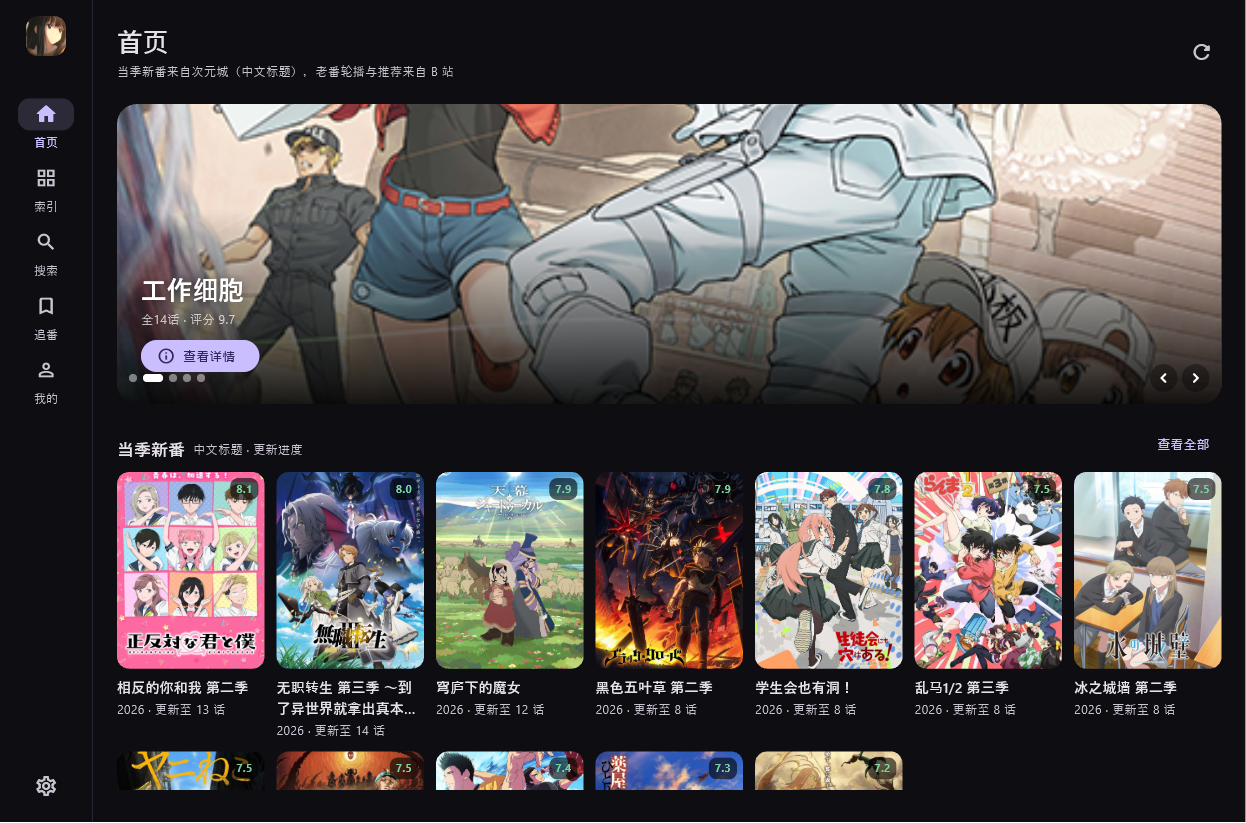
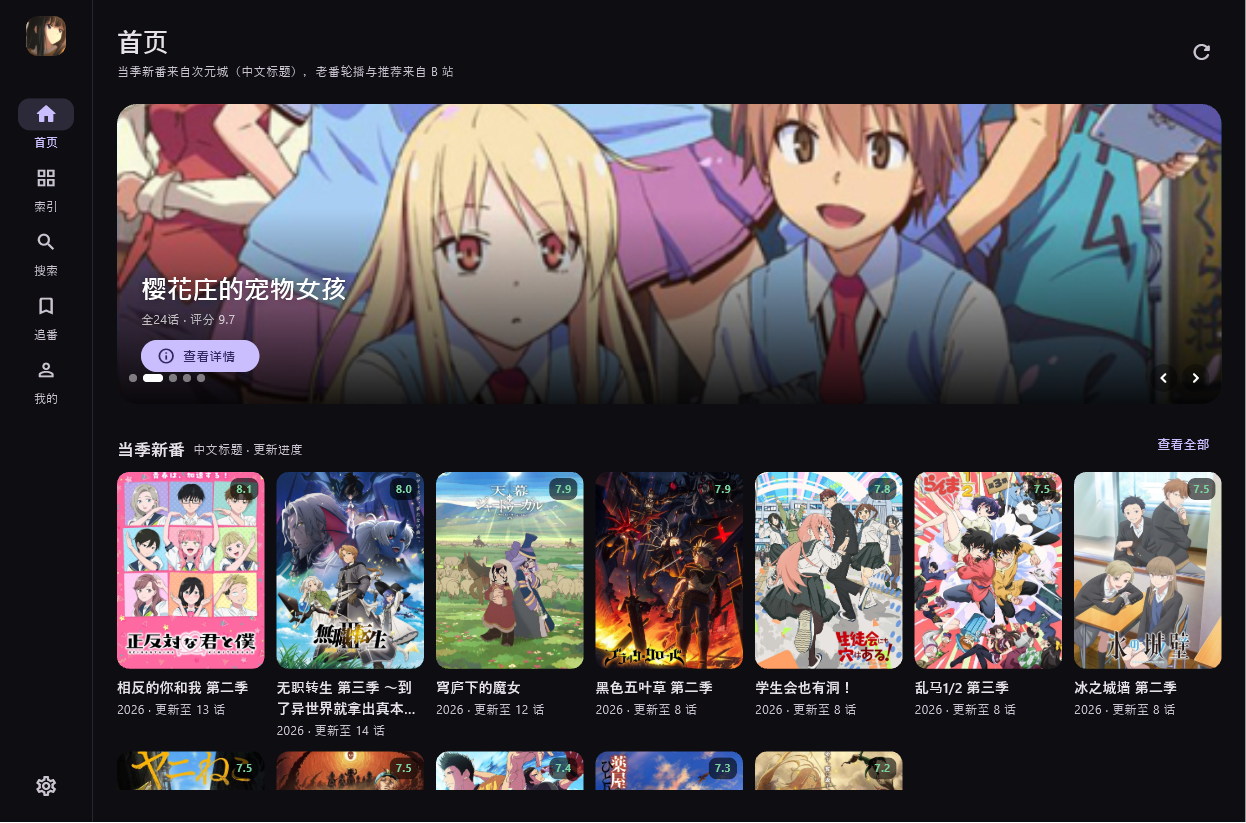
feat(S2.4): 老番推荐改为每天随机
- 老番池改用 B站 is_finish=1&order=1（犬夜叉/超电磁炮/刀剑神域这类真老番）
- 抓 3 页约 72 部 → 同系列去重 → 以当天日期为种子洗牌 → 首页取 14 部
- 同一天内稳定、跨天换一批，避免每次启动列表乱跳
- distinctSeries 迁到 CatalogMerger 并补 2 个单元测试（共 64 个）
- 新增 docs/BACKLOG.md：数据源扩充记到 S7，其它延后项汇总

Changed region(s): [[0.0915, 0.1215, 1.0, 0.486]]

diff --git a/lib/features/catalog/catalog_providers.dart b/lib/features/catalog/catalog_providers.dart
@@ -1,3 +1,5 @@
+import 'dart:math';
+
 import 'package:flutter_riverpod/flutter_riverpod.dart';
 
 import '../../app/providers/app_providers.dart';
@@ -8,6 +10,7 @@ import '../../core/storage/daos.dart';
 import 'data/anilist_catalog.dart';
 import 'data/bili_catalog.dart';
 import 'data/bili_wbi.dart';
+import 'data/catalog_merge.dart';
 import 'data/catalog_models.dart';
 import 'data/catalog_repository.dart';
 import 'data/cycani_catalog.dart';
@@ -78,17 +81,31 @@ final homePopularProvider = FutureProvider<CatalogPage>((ref) {
       );
 });
 
-/// 首页轮播：已完结的老番（按追番人数）。
+/// 首页：日漫老番（已完结），**每天随机**抽取。
 ///
-/// 为什么不用"评分榜"：B 站评分榜前列混着柯南/小猪佩奇这类超长篇，
-/// 当 banner 很难看；用"完结 + 追番人数"更接近"经典老番"。
-final homeClassicProvider = FutureProvider<CatalogPage>((ref) {
-  return ref.watch(catalogRepositoryProvider).browse(
-        page: 1,
-        pageSize: 30,
-        isFinish: 1,
-        order: '3',
-      );
+/// 取 B 站 `is_finish=1 & order=1`（这一维出来的多是犬夜叉/超电磁炮/刀剑神域这类
+/// 真正的老番，而不是按"追番人数"排在前的当季热门），抓 3 页约 72 部，
+/// 同系列去重后按「当天日期」做种子洗牌 —— 同一天打开看到的结果稳定，跨天就换一批。
+final homeClassicProvider = FutureProvider<CatalogPage>((ref) async {
+  final repo = ref.watch(catalogRepositoryProvider);
+
+  final pages = await Future.wait([
+    for (var page = 1; page <= 3; page++)
+      repo.browse(page: page, pageSize: 24, isFinish: 1, order: '1'),
+  ]);
+
+  final all = <AnimeSummary>[];
+  for (final page in pages) {
+    all.addAll(page.items);
+  }
+
+  final distinct = CatalogMerger.distinctSeries(all);
+  // 以日期为种子：同一天内稳定，跨天自动换一批
+  final now = DateTime.now();
+  final seed = now.year * 10000 + now.month * 100 + now.day;
+  distinct.shuffle(Random(seed));
+
+  return CatalogPage(items: distinct, page: 1, hasMore: false);
 });
 
 /// 卡片上的"更新至第 N 话"（仅次元城有数据）。

diff --git a/lib/features/home/home_page.dart b/lib/features/home/home_page.dart
@@ -8,27 +8,11 @@ import '../../app/widgets/empty_state.dart';
 import '../../app/widgets/page_scaffold.dart';
 import '../../app/widgets/section_header.dart';
 import '../catalog/catalog_providers.dart';
+import '../catalog/data/catalog_merge.dart';
 import '../catalog/data/catalog_models.dart';
 import '../catalog/widgets/anime_card.dart';
 import '../catalog/widgets/hero_carousel.dart';
 
-/// 同系列去重：标题归一化后的前 4 个字相同即视为同一系列，只保留第一部。
-///
-/// 例：鬼灭之刃 / 鬼灭之刃 无限列车篇 / 鬼灭之刃 柱训练篇 → 只留第一部。
-/// 这是启发式：宁可少推几部，也不要一屏全是同一系列。
-List<AnimeSummary> distinctSeries(List<AnimeSummary> items) {
-  final seen = <String>{};
-  final out = <AnimeSummary>[];
-  for (final anime in items) {
-    final normalized = TitleMatcher.normalize(anime.title);
-    if (normalized.isEmpty) continue;
-    final key = normalized.length >= 4
-        ? normalized.substring(0, 4)
-        : normalized;
-    if (seen.add(key)) out.add(anime);
-  }
-  return out;
-}
 
 /// 首页：轮播（高分老番）+ 当季新番（中文标题）+ 高分推荐 + 继续观看。
 class HomePage extends ConsumerWidget {
@@ -218,7 +202,7 @@ class _CatalogBlock extends StatelessWidget {
           );
         }
         // 同系列只留第一部（鬼灭 5 条连排太丑），再取两行
-        final distinct = distinctSeries(data.items);
+        final distinct = CatalogMerger.distinctSeries(data.items);
         return AnimeGrid(
           items: distinct.take(14).toList(),
           onTap: onOpen,

diff --git a/test/catalog_merge_test.dart b/test/catalog_merge_test.dart
@@ -143,4 +143,26 @@ void main() {
     );
     expect(merged.length, 1);
   });
+
+  test('同系列去重：鬼灭之刃 各篇只留第一部', () {
+    final items = [
+      _bili(title: '鬼灭之刃 柱训练篇', year: 2024, eps: 8),
+      _bili(title: '鬼灭之刃 刀匠村篇', year: 2023, eps: 11),
+      _bili(title: '鬼灭之刃', year: 2019, eps: 26),
+      _bili(title: '咒术回战', year: 2020, eps: 24),
+    ];
+    final distinct = CatalogMerger.distinctSeries(items);
+    expect(distinct.length, 2);
+    expect(distinct.first.title, '鬼灭之刃 柱训练篇');
+    expect(distinct.last.title, '咒术回战');
+  });
+
+  test('同系列去重：空标题不会让后续条目被吞', () {
+    final distinct = CatalogMerger.distinctSeries([
+      _bili(title: ''),
+      _bili(title: '孤独摇滚', year: 2022, eps: 12),
+    ]);
+    expect(distinct.length, 1);
+    expect(distinct.single.title, '孤独摇滚');
+  });
 }

diff --git a/lib/features/catalog/data/catalog_merge.dart b/lib/features/catalog/data/catalog_merge.dart
@@ -76,4 +76,22 @@ class CatalogMerger {
     }
     return true;
   }
+
+  /// 同系列去重：标题归一化后的前 4 个字相同即视为同一系列，只保留第一部。
+  ///
+  /// 例：鬼灭之刃 / 鬼灭之刃 无限列车篇 / 鬼灭之刃 柱训练篇 → 只留第一部。
+  /// 启发式，宁少勿乱。
+  static List<AnimeSummary> distinctSeries(List<AnimeSummary> items) {
+    final seen = <String>{};
+    final out = <AnimeSummary>[];
+    for (final anime in items) {
+      final normalized = TitleMatcher.normalize(anime.title);
+      if (normalized.isEmpty) continue;
+      final key = normalized.length >= 4
+          ? normalized.substring(0, 4)
+          : normalized;
+      if (seen.add(key)) out.add(anime);
+    }
+    return out;
+  }
 }

diff --git a/docs/BACKLOG.md b/docs/BACKLOG.md
@@ -1,0 +1,30 @@
+# 待办与备忘录（BACKLOG）
+
+> 记录"以后再说"的事，避免聊过就忘。每条都写明出自哪一段。
+
+## S7 讨论：数据源扩充
+
+**来源**：S2.3 用户提出「热门番剧能不能照着 AniCh 的数据源更新，它的更全」，
+当时结论是 AniCh 的后端闭源、我们只能用次元城 + B 站两个池子，
+**等 S7（多源适配）时再讨论**。
+
+**S7 要回答的问题**：
+
+1. 首页"当季/热门"的候选池要不要从多个站点合并（每站一个 adapter）？
+2. 合并时以谁为准：次元城（中文、能播）还是站点覆盖面（更全但可能没中文）？
+3. 站点排行榜/周表各自的更新频率，是否需要缓存或定时刷新？
+4. 同一部番在多个站点出现时，如何选"主条目"（现在按标题 + 年份 + 集数保守合并）。
+
+## 其它延后项
+
+| 项 | 出处 | 说明 |
+|---|---|---|
+| 封面下载时转码压缩 | S2 报告 | 现在原图 PNG 平均约 860 KB，缓存上限 200 MB；S6 打包时顺手做 |
+| 年份筛选 | S2 报告 | B 站索引接口忽略 `year` 参数（实测），换源或接口恢复后再加 |
+| 中配版 / 原版合并 | S2 报告 | 故意不合并：配音属性不同，强行合并易误判 |
+| 设置页的播放 / 弹幕偏好 | S1 报告 | 等 S3（播放器）/ S4（弹幕）有功能了再补 |
+| 详情页"相关推荐" | 用户 | 用户明确说"做不做都可以，先不做" |
+| 弹幕 | 路线图 | S4 |
+| 多源线路 + 失败自动切 | 路线图 | S7 |
+| 超分 / 下载 / 画中画 / 通知 / Android | 路线图 | S8 |
+| 次元城简介是日文 | S2.2 | 可用 AniList 中文简介补，按标题匹配成功时替换 |

diff --git a/README.md b/README.md
@@ -3,6 +3,7 @@
 Windows 优先的追番客户端，参照 [Sle2p/AniCh](https://github.com/Sle2p/AniCh) 的产品形态**重新实现**（非 fork：上游无 LICENSE，且其 1.5.x 版本不开源）。
 
 > 当前状态：**S2 完成 ✅**（双源元数据：B 站 + AniList，搜索/索引/详情全部接通）
+> 待办与延后项：[docs/BACKLOG.md](docs/BACKLOG.md)  
 > 阶段报告：[S0](docs/S0-REPORT.md) · [S0 复验](docs/S0-VERIFY.md) · [S1](docs/S1-REPORT.md) · [S1 复验](docs/S1-VERIFY.md) · [S2](docs/S2-REPORT.md)
 
 ![S0 自检窗口](docs/assets/s0-selfcheck.png)
